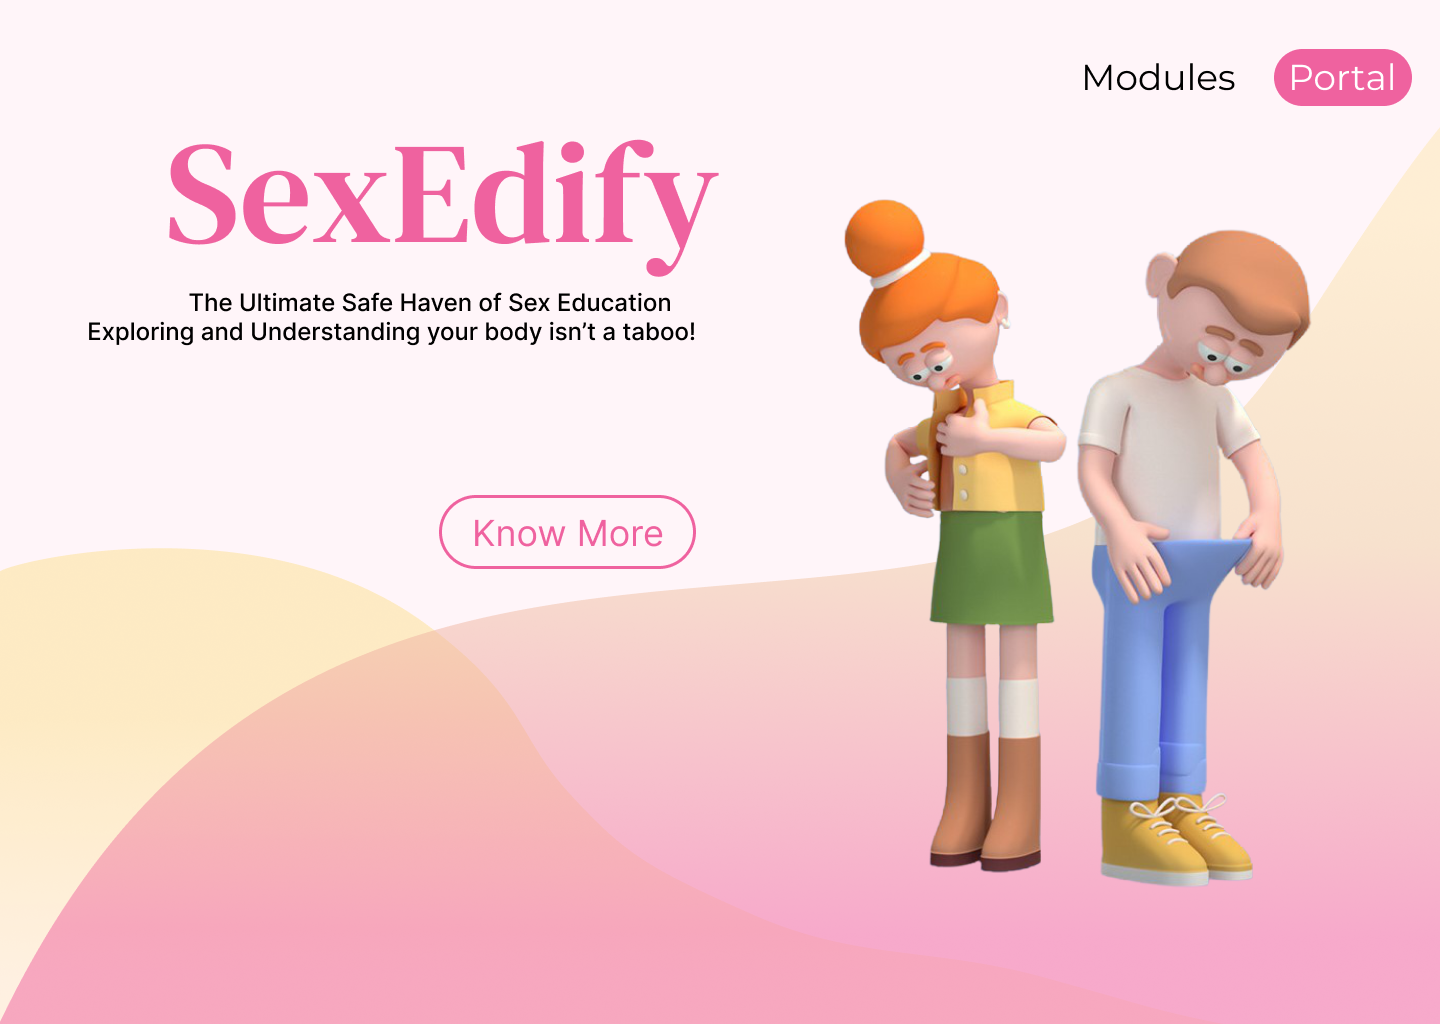
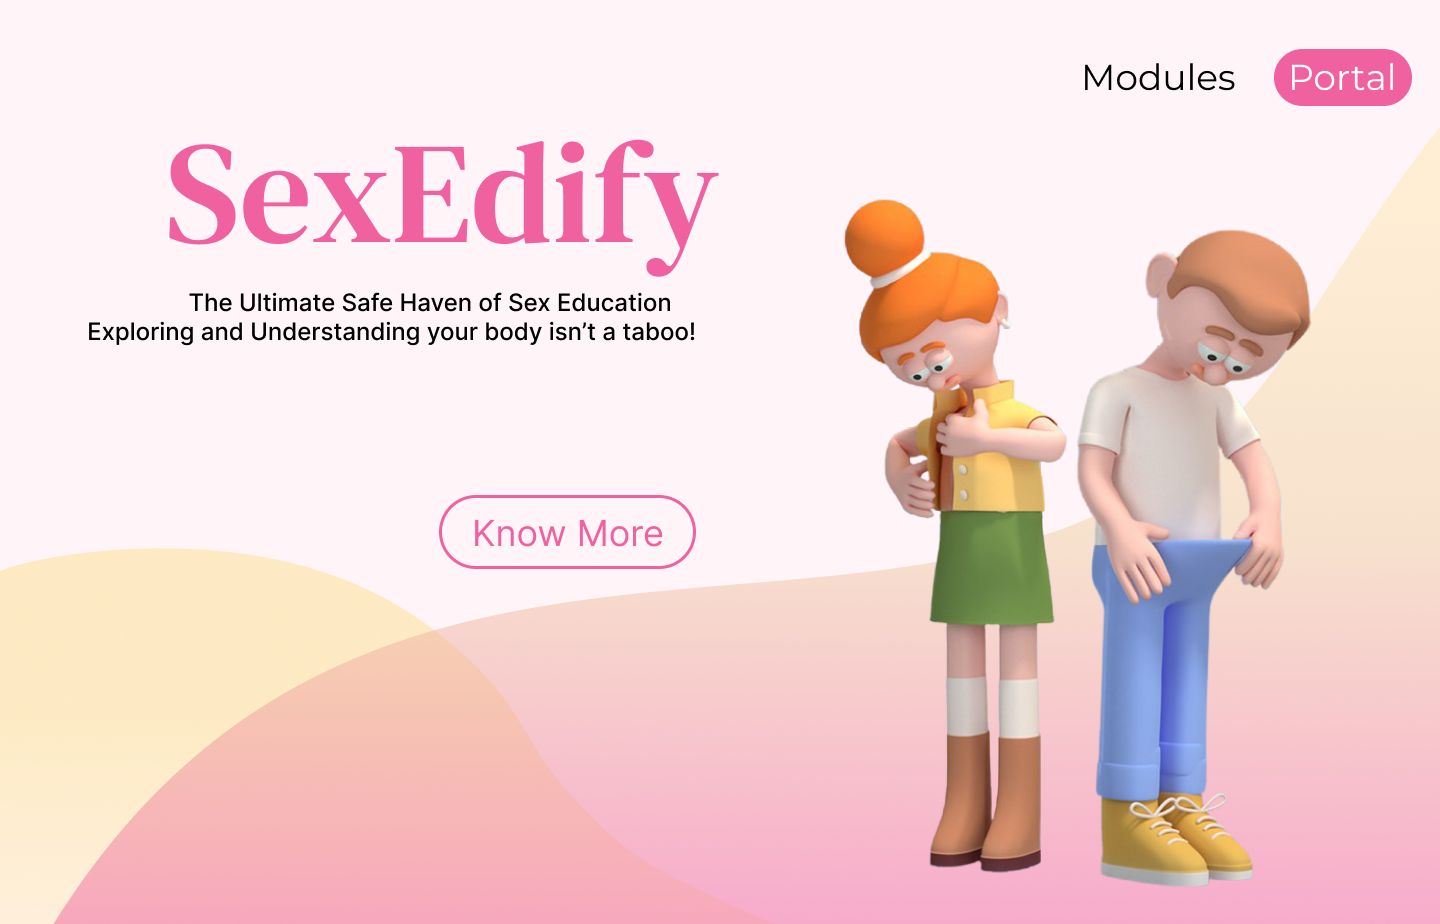
updated project pages

Changed region(s): [[0.0, 0.1818, 0.9688, 1.0], [0.0625, 0.1212, 0.5, 0.3939], [0.75, 0.0303, 1.0, 0.1818]]

diff --git a/styles/indusby.module.scss b/styles/indusby.module.scss
@@ -59,13 +59,13 @@
         font-size: nth($fontSize, 4);
         font-weight: 400;
         color: $dark-text;
-        width: 60%;
+        width: 50%;
         display: flex;
         flex-direction: column;
         justify-content: center;
       }
       .imageWrapper {
-        width: 18rem;
+        width: 28rem;
         height: auto;
         display: flex;
         flex-direction: column;

diff --git a/styles/sexedify.module.scss b/styles/sexedify.module.scss
@@ -34,13 +34,13 @@
         font-size: nth($fontSize, 4);
         font-weight: 400;
         color: $dark-text;
-        width: 60%;
+        width: 50%;
         display: flex;
         flex-direction: column;
         justify-content: center;
       }
       .imageWrapper {
-        width: 18rem;
+        width: 28rem;
         height: auto;
         display: flex;
         flex-direction: column;

diff --git a/styles/svayam.module.scss b/styles/svayam.module.scss
@@ -61,13 +61,13 @@
         font-size: nth($fontSize, 4);
         font-weight: 400;
         color: $dark-text;
-        width: 60%;
+        width: 50%;
         display: flex;
         flex-direction: column;
         justify-content: center;
       }
       .imageWrapper {
-        width: 18rem;
+        width: 28rem;
         height: auto;
         display: flex;
         flex-direction: column;
